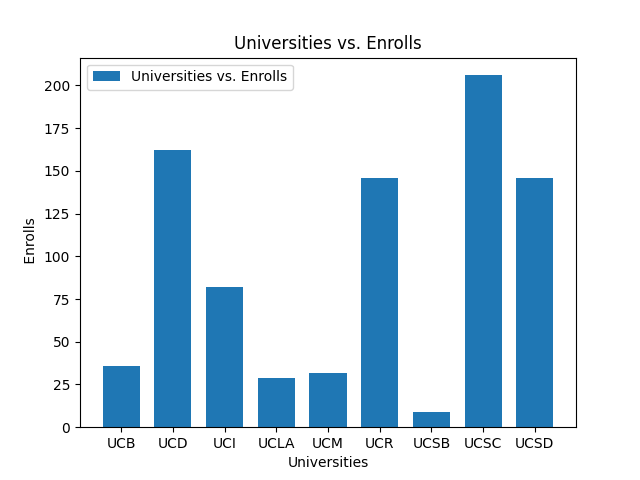
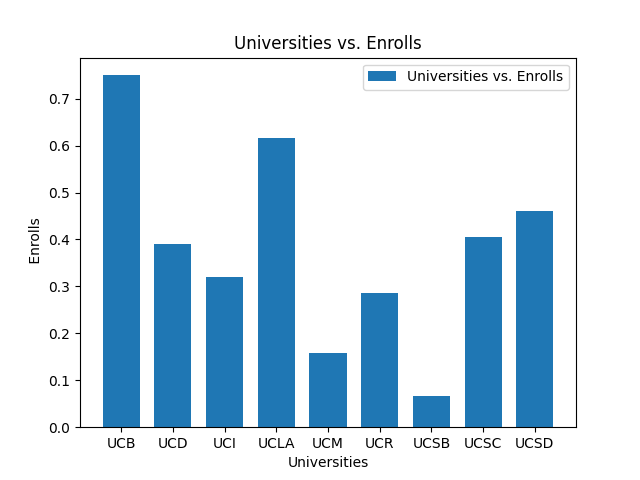
added to enrollment graphing code

diff --git a/graph.py b/graph.py
@@ -5,13 +5,18 @@ import pandas as pd
 def GenerateBarGraphUniversity(y): 
     xdata = []
     ydata = []
+    zdata = []
     with open('UCTransferData.csv','r') as csvfile:
         lines = csv.reader(csvfile, delimiter=',')
         for row in lines:
             xdata.append(row[0])
             ydata.append(row[y])
+            zdata.append(row[2])
     
     for i in range(1, len(ydata)):
+        if y == 3:
+            ydata[i] = float(ydata[i])/float(zdata[i])
+        
         ydata[i] = float(ydata[i])
     plt.bar(xdata[1:], ydata[1:], width = 0.72,label = "Universities vs." + ydata[0])
     plt.xlabel('Universities')
